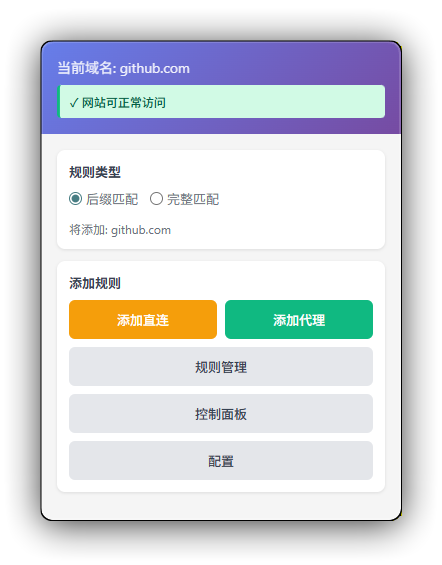
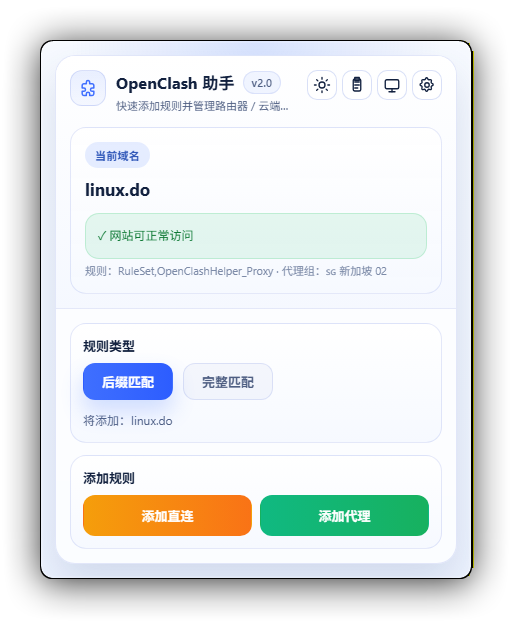
fix: 精确断开匹配连接并按接入类型刷新规则集
- 按 DOMAIN/DOMAIN-SUFFIX/IP-CIDR/DST-PORT 精确匹配后断开连接
- 本地 Clash 使用 OpenClashHelper 规则集名
- 按 activeAccessType 选择 OpenClash 或本地 Clash 刷新目标
- 更新截图

diff --git a/popup.js b/popup.js
@@ -318,39 +318,83 @@ async function checkClashConnection(domain) {
   }
 }
 
-// 关闭匹配域名的现有 Clash 连接，强制按新规则重新建连
-async function closeClashConnections(domain) {
-  try {
-    const { config, localClientConfig } = await chrome.storage.local.get(['config', 'localClientConfig']);
-    const target = resolveControllerTarget(localClientConfig?.host ? localClientConfig : config);
-    if (!target) return 0;
+function normalizeConnectionValue(value) {
+  return String(value || '').trim().toLowerCase().replace(/\.$/, '');
+}
+
+function connectionMatchesRule(connection, ruleContext) {
+  const metadata = connection?.metadata || {};
+  const host = normalizeConnectionValue(metadata.host);
+  const destinationIP = normalizeConnectionValue(metadata.destinationIP);
+  const destinationPort = String(metadata.destinationPort || '');
+  const rulePayload = normalizeConnectionValue(connection?.rulePayload);
+  const value = normalizeConnectionValue(ruleContext?.value);
+
+  if (!value) return false;
+
+  if (ruleContext.matchType === 'IP-CIDR') {
+    const targetIP = value.split('/')[0];
+    return destinationIP === targetIP || host === targetIP;
+  }
+
+  if (ruleContext.matchType === 'DST-PORT') {
+    return destinationPort === value;
+  }
+
+  if (ruleContext.matchType === 'DOMAIN') {
+    return host === value || rulePayload === value;
+  }
+
+  const matchesDomainSuffix = candidate =>
+    candidate === value || candidate.endsWith(`.${value}`);
+
+  return matchesDomainSuffix(host) || matchesDomainSuffix(rulePayload);
+}
+
+// 只断开与刚添加规则匹配的连接，确保后续请求按最新规则重新建连
+async function closeMatchingClashConnections(ruleContext) {
+  const targets = await getProviderRefreshTargets();
+  const counts = await Promise.all(targets.map(async ({ target, label }) => {
+    const resolvedTarget = resolveControllerTarget(target);
+    if (!resolvedTarget) return 0;
 
     const headers = {};
-    if (target.secret) headers['Authorization'] = `Bearer ${target.secret}`;
+    if (resolvedTarget.secret) headers['Authorization'] = `Bearer ${resolvedTarget.secret}`;
 
-    const resp = await fetch(`http://${target.host}:${target.port}/connections`, {
-      headers,
-      signal: AbortSignal.timeout(3000)
-    });
-    if (!resp.ok) return 0;
-
-    const data = await resp.json();
-    const conns = (data.connections || []).filter(c =>
-      c.metadata?.host && c.metadata.host.includes(domain)
-    );
-
-    await Promise.all(conns.map(c =>
-      fetch(`http://${target.host}:${target.port}/connections/${c.id}`, {
-        method: 'DELETE',
+    try {
+      const response = await fetch(`http://${resolvedTarget.host}:${resolvedTarget.port}/connections`, {
         headers,
-        signal: AbortSignal.timeout(3000)
-      }).catch(() => {})
-    ));
+        signal: AbortSignal.timeout(5000)
+      });
+      if (!response.ok) {
+        throw new Error(`HTTP ${response.status}`);
+      }
 
-    return conns.length;
-  } catch (e) {
-    return 0; // 静默失败
-  }
+      const data = await response.json();
+      const connections = (data.connections || []).filter(connection =>
+        connection.id && connectionMatchesRule(connection, ruleContext)
+      );
+
+      await Promise.all(connections.map(connection =>
+        fetch(`http://${resolvedTarget.host}:${resolvedTarget.port}/connections/${encodeURIComponent(connection.id)}`, {
+          method: 'DELETE',
+          headers,
+          signal: AbortSignal.timeout(5000)
+        }).then(deleteResponse => {
+          if (!deleteResponse.ok) {
+            throw new Error(`HTTP ${deleteResponse.status}`);
+          }
+        })
+      ));
+
+      return connections.length;
+    } catch (error) {
+      console.log(`断开${label}匹配连接失败:`, error.message);
+      return 0;
+    }
+  }));
+
+  return counts.reduce((total, count) => total + count, 0);
 }
 
 // 添加规则
@@ -424,8 +468,8 @@ async function addRule(type) {
       await refreshConfiguredRuleProviders(type);
     }
     
-    // 关闭该站点现有连接，强制按新规则重新建连（否则已建立的连接仍走旧代理）
-    await closeClashConnections(currentDomain);
+    // 只断开与刚添加规则匹配的连接，降低对其他请求的影响
+    await closeMatchingClashConnections({ matchType, value: domainToAdd });
 
     await notifyBackupChanged('popup_add_rule');
     startCountdownRefresh();
@@ -454,6 +498,8 @@ async function refreshRuleProviders(targetConfig, type, mode) {
     let providerName;
     if (mode === 'remote') {
       providerName = type === 'PROXY' ? 'Rule-provider%20-%20Custom_Proxy' : 'Rule-provider%20-%20Custom_Direct';
+    } else if (mode === 'localClash') {
+      providerName = type === 'PROXY' ? 'OpenClashHelper_Proxy' : 'OpenClashHelper_Direct';
     } else {
       providerName = type === 'PROXY' ? 'Rule-provider%20-%20Cloud_Proxy' : 'Rule-provider%20-%20Cloud_Direct';
     }
@@ -551,11 +597,12 @@ function sameControllerTarget(left, right) {
 }
 
 async function getProviderRefreshTargets() {
-  const { config, localClientConfig, syncMode, syncTestState } = await chrome.storage.local.get([
+  const { config, localClientConfig, syncMode, syncTestState, activeAccessType } = await chrome.storage.local.get([
     'config',
     'localClientConfig',
     'syncMode',
-    'syncTestState'
+    'syncTestState',
+    'activeAccessType'
   ]);
 
   const mode = syncMode || 'cloudflare';
@@ -571,25 +618,27 @@ async function getProviderRefreshTargets() {
     return routerTarget ? [{ target: routerTarget, mode: 'remote', label: '路由器' }] : [];
   }
 
-  const routerReady = Boolean(syncTestState?.cloudRouter?.ready);
-  const externalReady = Boolean(syncTestState?.cloudExternal?.ready);
-  const routerTarget = routerReady ? resolveControllerTarget(syncTestState?.cloudRouter?.target) : null;
+  const activeType = activeAccessType === 'openClash' || activeAccessType === 'openclash'
+    ? 'openClash'
+    : 'localClash';
+
+  if (activeType === 'openClash') {
+    const routerTarget = resolveControllerTarget(
+      syncTestState?.cloudRouter?.ready
+        ? syncTestState.cloudRouter.target
+        : {
+            host: config?.clashHost || config?.host?.split(':')[0],
+            port: config?.clashPort || '9090',
+            secret: config?.clashSecret || ''
+          }
+    );
+    return routerTarget ? [{ target: routerTarget, mode: 'cloudflare', label: 'OpenClash' }] : [];
+  }
+
   const externalTarget = resolveControllerTarget(
-    externalReady ? syncTestState?.cloudExternal?.target : localClientConfig
+    syncTestState?.cloudExternal?.ready ? syncTestState.cloudExternal.target : localClientConfig
   );
-
-  const targets = [];
-  if (routerTarget) {
-    targets.push({ target: routerTarget, mode: 'cloudflare', label: '路由器' });
-  }
-
-  if (!routerReady && externalTarget) {
-    targets.push({ target: externalTarget, mode: 'cloudflare', label: '本地 Clash' });
-  } else if (routerReady && externalReady && routerTarget && externalTarget && !sameControllerTarget(routerTarget, externalTarget)) {
-    targets.push({ target: externalTarget, mode: 'cloudflare', label: '本地 Clash' });
-  }
-
-  return targets;
+  return externalTarget ? [{ target: externalTarget, mode: 'localClash', label: '本地 Clash' }] : [];
 }
 
 async function refreshConfiguredRuleProviders(type) {

diff --git a/background.js b/background.js
@@ -136,7 +136,7 @@ async function getProviderRefreshTargets() {
   const externalTarget = resolveControllerTarget(
     syncTestState?.cloudExternal?.ready ? syncTestState.cloudExternal.target : localClientConfig
   );
-  return externalTarget ? [{ target: externalTarget, mode: 'cloudflare', label: '本地 Clash' }] : [];
+  return externalTarget ? [{ target: externalTarget, mode: 'localClash', label: '本地 Clash' }] : [];
 }
 
 async function refreshConfiguredRuleProviders(type) {
@@ -161,7 +161,9 @@ async function refreshRuleProviders(targetConfig, type, mode) {
 
   const providerName = mode === 'remote'
     ? (type === 'PROXY' ? 'Rule-provider%20-%20Custom_Proxy' : 'Rule-provider%20-%20Custom_Direct')
-    : (type === 'PROXY' ? 'Rule-provider%20-%20Cloud_Proxy' : 'Rule-provider%20-%20Cloud_Direct');
+    : mode === 'localClash'
+      ? (type === 'PROXY' ? 'OpenClashHelper_Proxy' : 'OpenClashHelper_Direct')
+      : (type === 'PROXY' ? 'Rule-provider%20-%20Cloud_Proxy' : 'Rule-provider%20-%20Cloud_Direct');
 
   const response = await fetch(`http://${target.host}:${target.port}/providers/rules/${providerName}`, {
     method: 'PUT',
@@ -172,6 +174,85 @@ async function refreshRuleProviders(targetConfig, type, mode) {
   if (!response.ok) {
     throw new Error(`HTTP ${response.status}`);
   }
+}
+
+function normalizeConnectionValue(value) {
+  return String(value || '').trim().toLowerCase().replace(/\.$/, '');
+}
+
+function connectionMatchesRule(connection, ruleContext) {
+  const metadata = connection?.metadata || {};
+  const host = normalizeConnectionValue(metadata.host);
+  const destinationIP = normalizeConnectionValue(metadata.destinationIP);
+  const destinationPort = String(metadata.destinationPort || '');
+  const rulePayload = normalizeConnectionValue(connection?.rulePayload);
+  const value = normalizeConnectionValue(ruleContext?.value);
+
+  if (!value) return false;
+
+  if (ruleContext.matchType === 'IP-CIDR') {
+    const targetIP = value.split('/')[0];
+    return destinationIP === targetIP || host === targetIP;
+  }
+
+  if (ruleContext.matchType === 'DST-PORT') {
+    return destinationPort === value;
+  }
+
+  if (ruleContext.matchType === 'DOMAIN') {
+    return host === value || rulePayload === value;
+  }
+
+  const matchesDomainSuffix = candidate =>
+    candidate === value || candidate.endsWith(`.${value}`);
+
+  return matchesDomainSuffix(host) || matchesDomainSuffix(rulePayload);
+}
+
+// 只断开与刚添加规则匹配的连接，确保后续请求按最新规则重新建连
+async function closeMatchingClashConnections(ruleContext) {
+  const targets = await getProviderRefreshTargets();
+  const counts = await Promise.all(targets.map(async ({ target, label }) => {
+    const resolvedTarget = resolveControllerTarget(target);
+    if (!resolvedTarget) return 0;
+
+    const headers = {};
+    if (resolvedTarget.secret) headers['Authorization'] = `Bearer ${resolvedTarget.secret}`;
+
+    try {
+      const response = await fetch(`http://${resolvedTarget.host}:${resolvedTarget.port}/connections`, {
+        headers,
+        signal: AbortSignal.timeout(5000)
+      });
+      if (!response.ok) {
+        throw new Error(`HTTP ${response.status}`);
+      }
+
+      const data = await response.json();
+      const connections = (data.connections || []).filter(connection =>
+        connection.id && connectionMatchesRule(connection, ruleContext)
+      );
+
+      await Promise.all(connections.map(connection =>
+        fetch(`http://${resolvedTarget.host}:${resolvedTarget.port}/connections/${encodeURIComponent(connection.id)}`, {
+          method: 'DELETE',
+          headers,
+          signal: AbortSignal.timeout(5000)
+        }).then(deleteResponse => {
+          if (!deleteResponse.ok) {
+            throw new Error(`HTTP ${deleteResponse.status}`);
+          }
+        })
+      ));
+
+      return connections.length;
+    } catch (error) {
+      console.log(`断开${label}匹配连接失败:`, error.message);
+      return 0;
+    }
+  }));
+
+  return counts.reduce((total, count) => total + count, 0);
 }
 
 async function addRuleByMode(domain, type) {
@@ -202,6 +283,11 @@ async function addRuleByMode(domain, type) {
     await cloudApi.addRule(rootDomain, type, 'DOMAIN-SUFFIX');
     await refreshConfiguredRuleProviders(type);
   }
+
+  await closeMatchingClashConnections({
+    matchType: 'DOMAIN-SUFFIX',
+    value: rootDomain
+  });
 
   await OpenClashBackup.markLocalChange('context_menu_add_rule');
   await OpenClashBackup.autoSyncIfEnabled('context_menu_add_rule').catch(error => {
